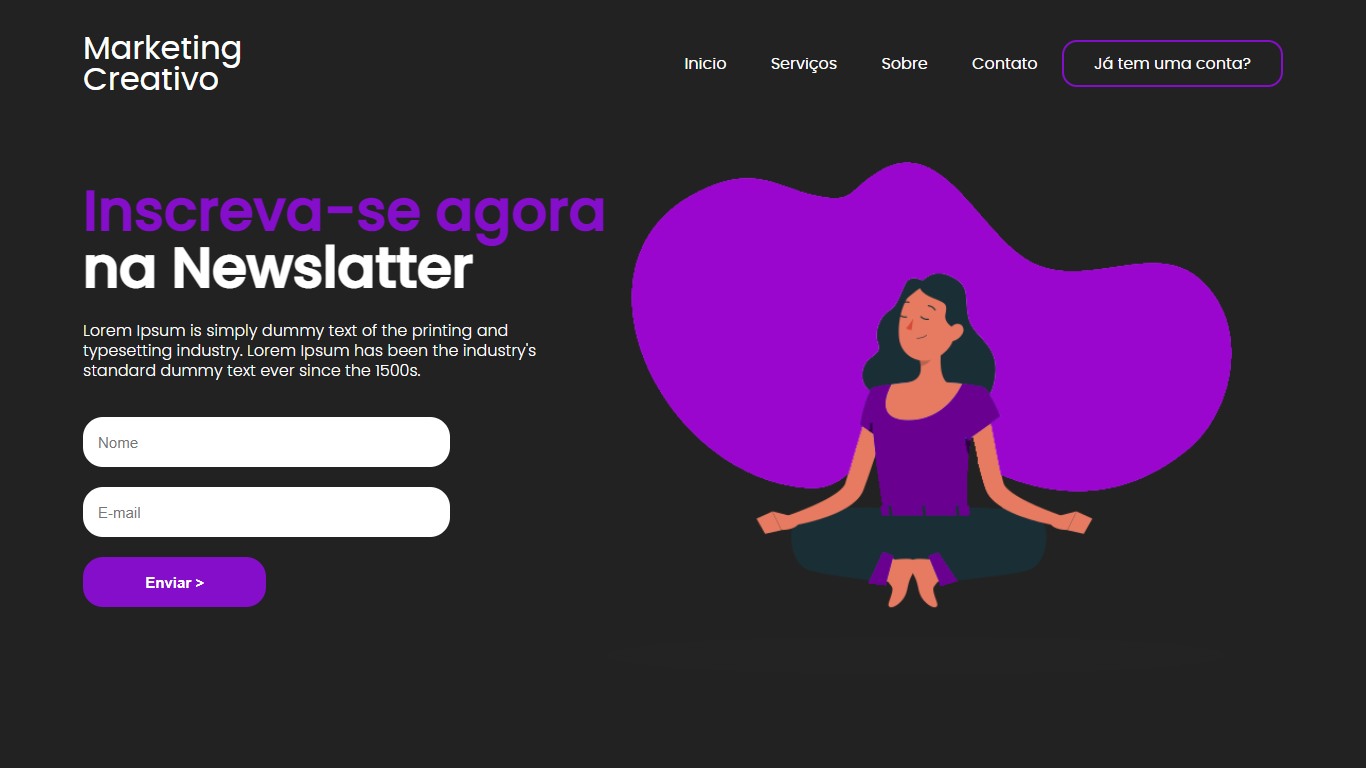
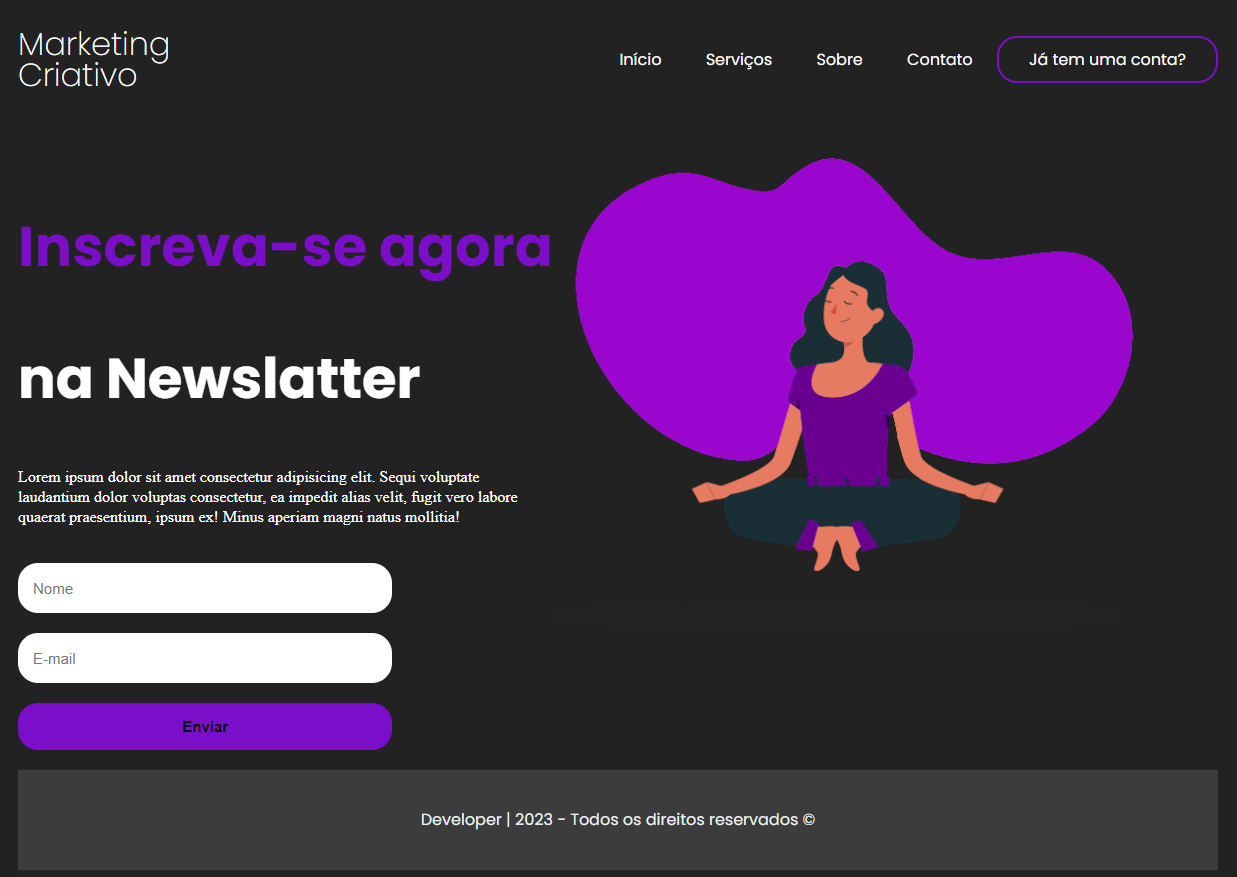
Add: imagem_projeto

diff --git a/git/lading-page/index.html b/git/lading-page/index.html
@@ -8,36 +8,43 @@
     <title>Lading Pages</title>
 </head>
 <body>
-    <header>
-        <div id="title">
-            <h1>Marketing</h1>
-            <h1>Criativo</h1>
-        </div>
-        <ul>
-           <a href="#home"><li>Início</li></a> 
-           <a href="#"><li>Serviços</li></a> 
-           <a href="#"><li>Sobre</li></a> 
-           <a href="#"><li>Contato</li></a> 
-           <a href="#" id="inscreva-se-btn"><li>Já tem uma conta?</li></a> 
-        </ul>
-    </header>
+    <div class="container">
+        <header>
+            <div id="title">
+                <h1>Marketing</h1>
+                <h1>Criativo</h1>
+            </div>
+            <ul>
+               <a href="#home"><li>Início</li></a> 
+               <a href="#"><li>Serviços</li></a> 
+               <a href="#"><li>Sobre</li></a> 
+               <a href="#"><li>Contato</li></a> 
+               <a href="#" id="inscreva-se-btn"><li>Já tem uma conta?</li></a> 
+            </ul>
+        </header>
+    
+        <main>
+            <aside>
+                <h2><span>Inscreva-se agora</span></h2>
+                <h2>na Newslatter</h2>
+                <p>Lorem ipsum dolor sit amet consectetur adipisicing elit. Sequi voluptate laudantium dolor voluptas consectetur, ea impedit alias velit, fugit vero labore quaerat praesentium, ipsum ex! Minus aperiam magni natus mollitia!</p>
+    
+                <form action="#">
+                    <input type="text" name="nome" id="nome" placeholder="Nome">
+                    <input type="email" name="email" id="email" placeholder="E-mail">
+                    <input type="submit" name="enviar" id="enviar" placeholder="Enviar Formulários">
+                </form>
+            </aside>
+    
+            <article>
+                <img src="./componentes/img/lading-page.png" alt="Mulher Rouxa">
+            </article>
+        </main>
+    </div>
 
-    <main>
-        <aside>
-            <h2><span>Inscreva-se agora</span></h2>
-            <h2>na Newslatter</h2>
-            <p>Lorem ipsum dolor sit amet consectetur adipisicing elit. Sequi voluptate laudantium dolor voluptas consectetur, ea impedit alias velit, fugit vero labore quaerat praesentium, ipsum ex! Minus aperiam magni natus mollitia!</p>
-
-            <form action="#">
-                <input type="text" name="nome" id="nome" placeholder="Nome">
-                <input type="email" name="email" id="email" placeholder="E-mail">
-                <input type="submit" name="enviar" id="enviar" placeholder="Enviar Formulários">
-            </form>
-        </aside>
-
-        <article>
-            <img src="./componentes/img/lading-page.png" alt="Mulher Rouxa">
-        </article>
-    </main>
+    <footer class="container">
+        <p>Developer Viviane Aguiar | 2023 - Todos os direitos reservados &copy;</p>
+    </footer>
 </body>
+
 </html>

diff --git a/git/lading-page/componentes/styles/main.css b/git/lading-page/componentes/styles/main.css
@@ -1,6 +1,6 @@
 @import url('https://fonts.googleapis.com/css2?family=Poppins:wght@100;200;300;400;500;600;700&family=Roboto:ital,wght@0,300;0,400;0,500;0,700;0,900;1,100&display=swap');
 
-body{
+body {
     background-color: rgb(34, 34, 34);
     color: white;
     font-family: 'Poppins', sans-serif;
@@ -8,6 +8,7 @@ body{
     margin: 0 auto;
     padding: 15px;
 }
+
 header{
     display: flex;
     flex-direction: row;
@@ -86,4 +87,18 @@ input{
     border: none;
     font-size: 15px;
 
+}
+footer{
+    background-color: rgb(61, 60, 61);
+    display: flex;
+    flex-direction: row;
+    justify-content: center;
+    margin-top: 20px;
+    color: #ecf0f1;
+    padding: 24px 0;
+    width: 100%;
+}
+footer p{
+    font-family: 'Poppins', sans-serif;
+    font-size: 14px;
 }
